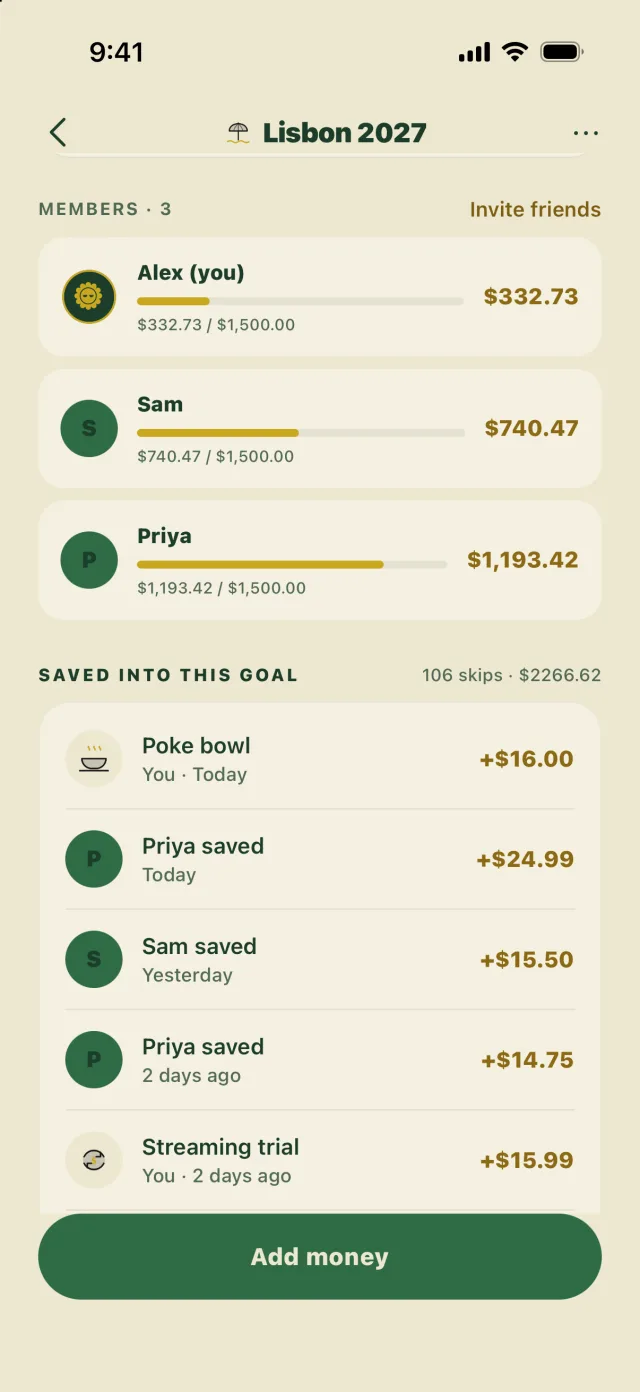
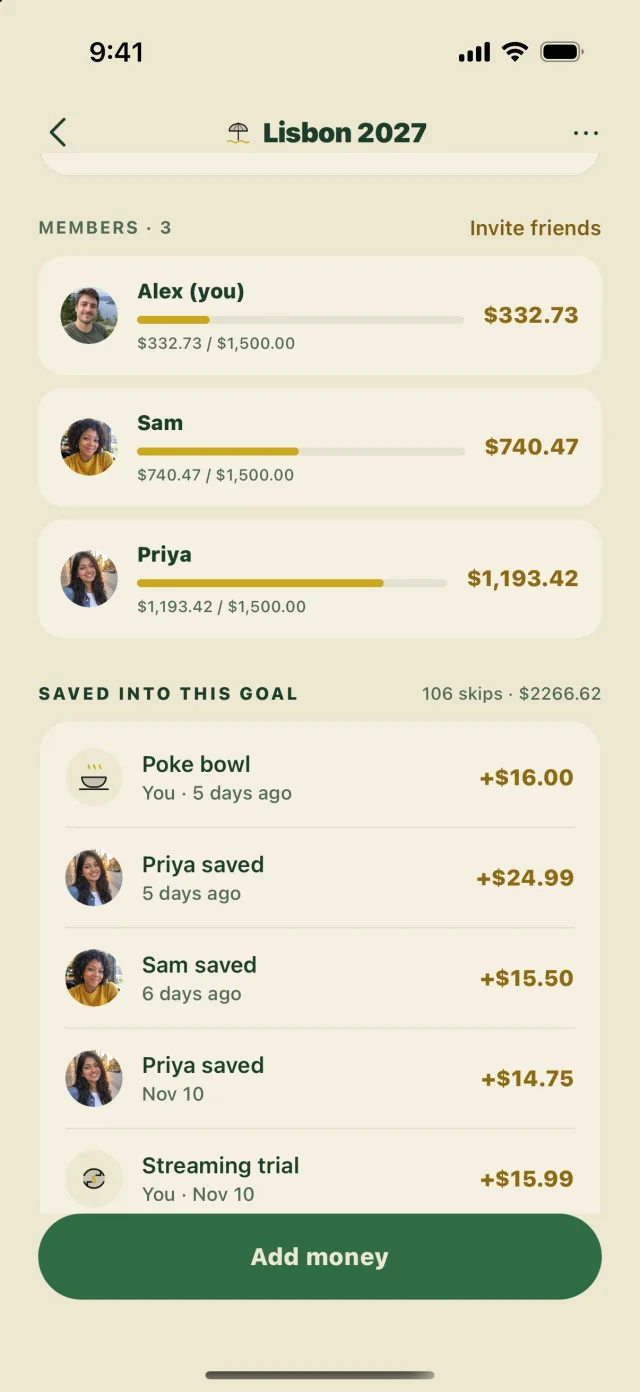
Group screenshot: demo members with profile photos
Retaken from the app (demo account Alex, Lisbon 2027) after giving the
three synthetic demo users AI-generated profile photos. Same size as before.

diff --git a/index.html b/index.html
@@ -1696,7 +1696,7 @@ input:focus-visible,textarea:focus-visible,select:focus-visible,
     <!-- Groups phone — Trip to Mexico City group detail -->
     <div class="groups-phone-wrap reveal" data-delay="2">
       <div class="phone">
-        <div class="phone-screen"><img src="/assets/app/v3-group.webp" alt="Miser shared goal screen: Lisbon 2027 with three members, Alex, Sam and Priya, each with their own progress, and a list of what each person saved." width="640" height="1392" loading="lazy" decoding="async" style="width:100%;height:100%;object-fit:cover;object-position:top;display:block"></div>
+        <div class="phone-screen"><img src="/assets/app/v3-group.webp" alt="Miser shared goal screen: Lisbon 2027 with three members, Alex, Sam and Priya, each with their profile photo and their own progress, and a list of what each person saved." width="640" height="1392" loading="lazy" decoding="async" style="width:100%;height:100%;object-fit:cover;object-position:top;display:block"></div>
       </div>
     </div>
 
